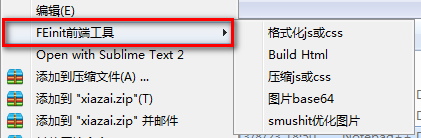
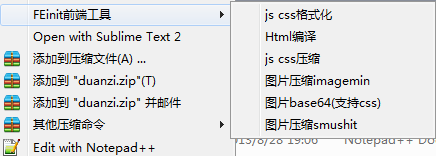
更换图片和readme

diff --git a/README.md b/README.md
@@ -140,7 +140,7 @@ fe imagemin filepath
 
 ### fe imgmin
 ##### 功能
-使用yahoo smushit压缩图片，不过国内环境经常连接超时
+使用yahoo smushit压缩图片，压缩率高，但是国内环境经常连接超时
 
 ##### 基本语法
 
